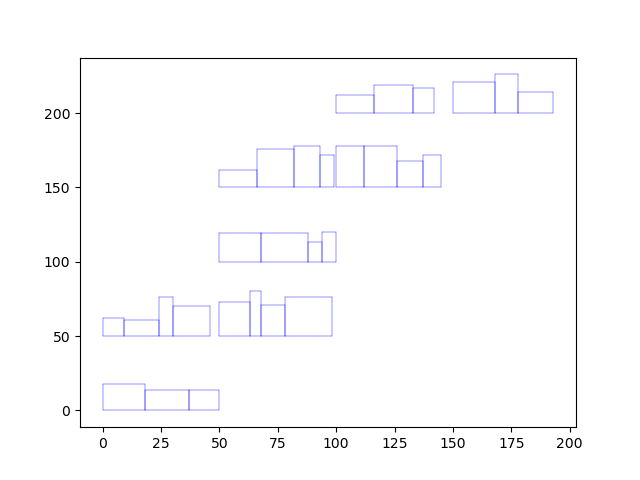
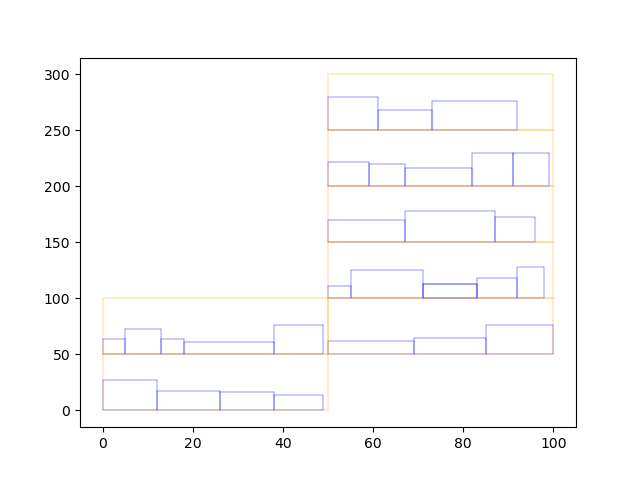
Initialize with feasible (bad) solution. Done.

diff --git a/src/gui/visualization.py b/src/gui/visualization.py
@@ -3,12 +3,16 @@ import numpy as np
 import pandas as pd
 
 data = pd.read_csv("/Users/pw-home/IdeaProjects/Optimierungsalgorithmen/data.csv", header=None, delimiter=";")
+boxData = pd.read_csv("/Users/pw-home/IdeaProjects/Optimierungsalgorithmen/boxData.csv", header=None, delimiter=";")
 
 xValues = np.fromstring(data.iloc[0].values.tolist()[0], dtype=int, sep=',')
 yValues = np.fromstring(data.iloc[1].values.tolist()[0], dtype=int, sep=',')
+boxXValues = np.fromstring(boxData.iloc[0].values.tolist()[0], dtype=int, sep=',')
+boxYValues = np.fromstring(boxData.iloc[1].values.tolist()[0], dtype=int, sep=',')
 
 fig = plt.figure()
 
+# Plot the rectangles
 for i in range(0, len(xValues), 4):
     plt.plot([xValues[i], xValues[i + 1]], [yValues[i], yValues[i]], 'b', linewidth=0.3)  # lower edges
 
@@ -17,6 +21,15 @@ for i in range(0, len(xValues), 4):
     plt.plot([xValues[i], xValues[i]], [yValues[i], yValues[i + 2]], 'b', linewidth=0.3)  # left edges
 
     plt.plot([xValues[i + 1], xValues[i + 1]], [yValues[i], yValues[i + 2]], 'b', linewidth=0.3)  # right edges
+
+# Plot the bounding boxes
+for i in range(0, len(boxXValues), 4):
+    plt.plot([boxXValues[i], boxXValues[i + 1]], [boxYValues[i], boxYValues[i]], 'orange', linewidth=0.3)  # lower edges
+    plt.plot([boxXValues[i + 2], boxXValues[i + 3]], [boxYValues[i + 2], boxYValues[i + 3]], 'orange', linewidth=0.3)  # upper edges
+    plt.plot([boxXValues[i], boxXValues[i]], [boxYValues[i], boxYValues[i + 2]], 'orange', linewidth=0.3)  # left edges
+    plt.plot([boxXValues[i + 1], boxXValues[i + 1]], [boxYValues[i], boxYValues[i + 2]], 'orange', linewidth=0.3)  # right edges
+
+
 # plt.show()
 
 fig.savefig("/Users/pw-home/IdeaProjects/Optimierungsalgorithmen/graph.png")

diff --git a/src/Main.java b/src/Main.java
@@ -47,12 +47,15 @@ public class Main {
         }
         WriteToFile writer = new WriteToFile(movedObjects);
 
+        // WriteToFile writer = new WriteToFile(grid.getObjects());
+        writer.write("data.csv");
 
-        //WriteToFile writer = new WriteToFile(grid.getObjects());
-        writer.write();
+        // Write bounding box data to a file
+        ArrayList<Rectangle> boxList = new ArrayList<>(boxes);
+        WriteToFile writer2 = new WriteToFile(boxList);
+        writer2.write("boxData.csv");
 
 
-        // todo: Box-Koordinaten in Datei schreiben und plotten.
 
         ScriptPython.execVisualization();
     }

diff --git a/src/WriteToFile.java b/src/WriteToFile.java
@@ -27,8 +27,8 @@ public class WriteToFile {
         }
     }
 
-    public void write() {
-        try (FileWriter fw = new FileWriter("data.csv", StandardCharsets.UTF_8);
+    public void write(String fileName) {
+        try (FileWriter fw = new FileWriter(fileName, StandardCharsets.UTF_8);
              BufferedWriter writer = new BufferedWriter(fw)) {
 
             actualWriting(writer, xCoordinates);
